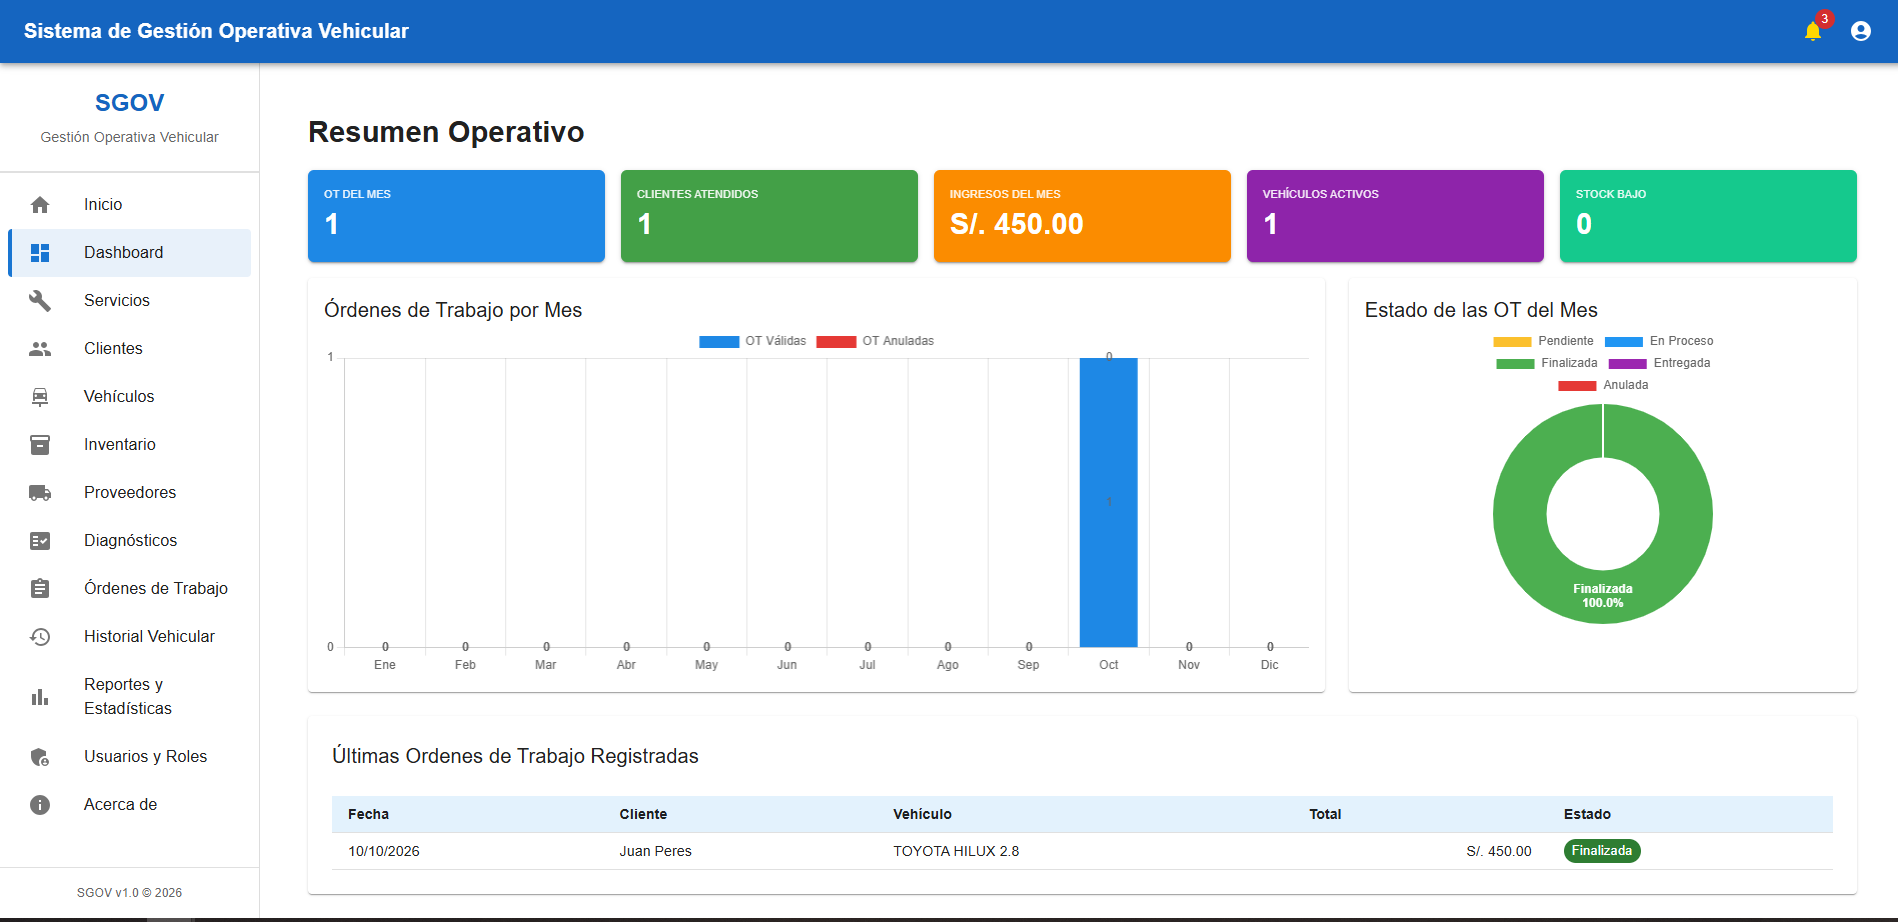
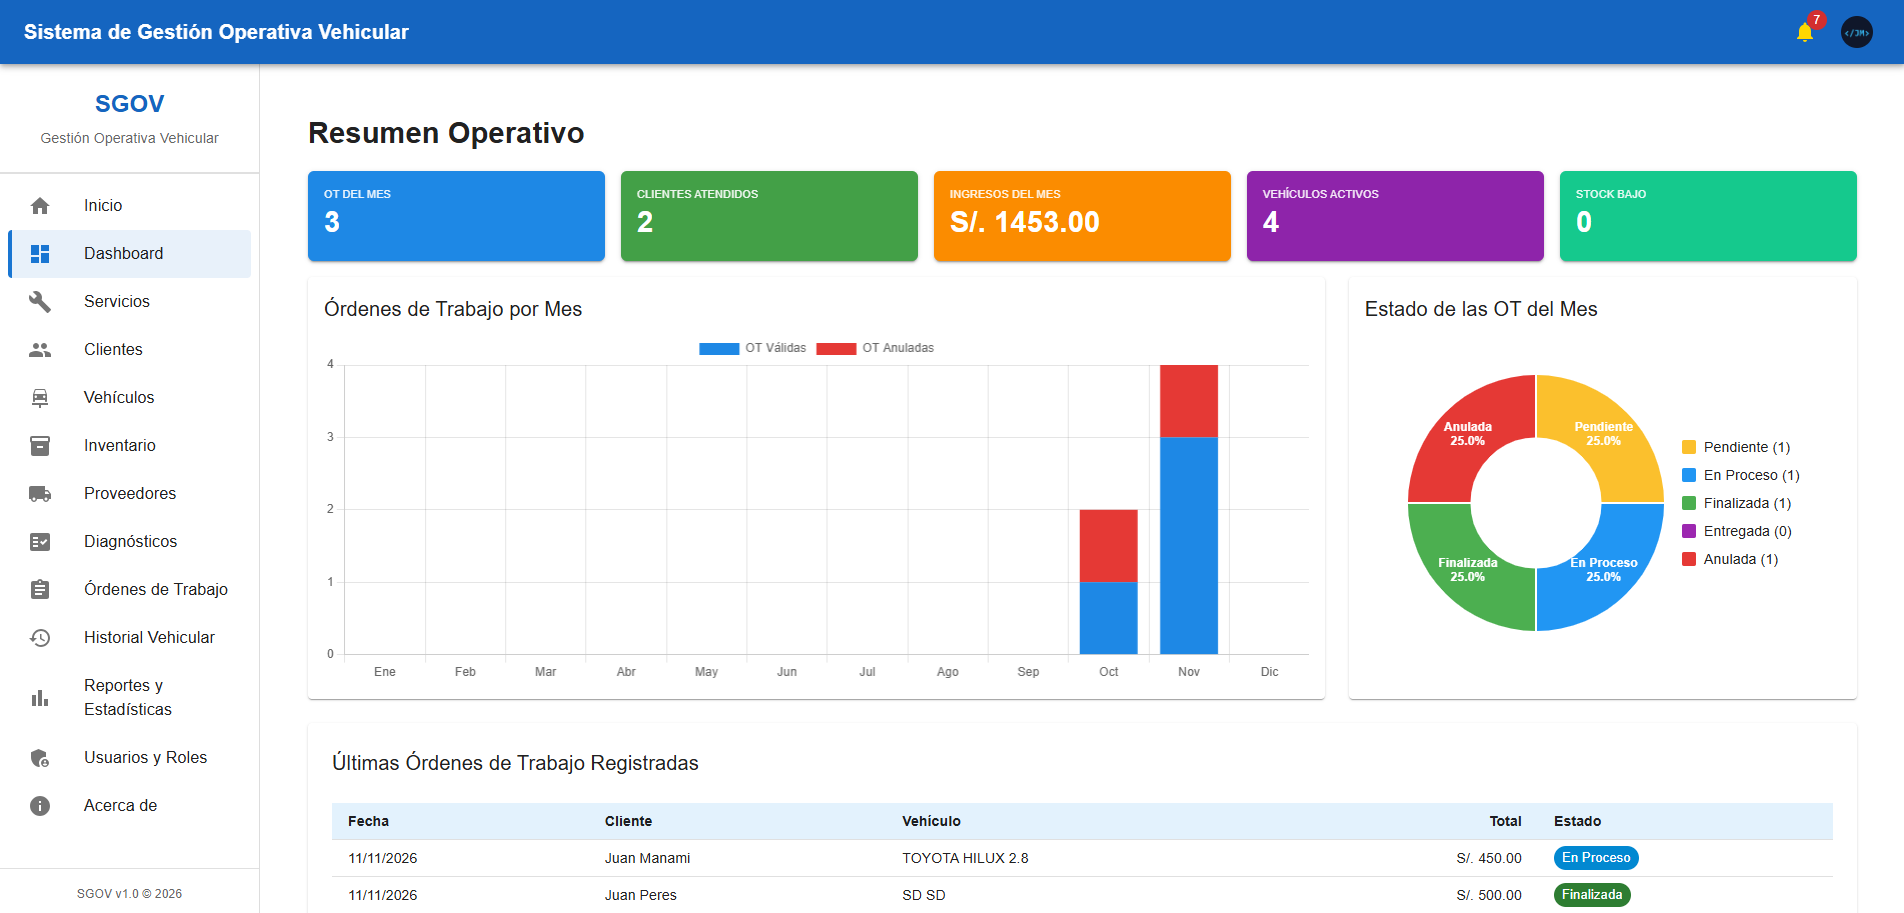
v2: correccion de imagenes de projects

diff --git a/src/components/sections/Projects.tsx b/src/components/sections/Projects.tsx
@@ -1,7 +1,8 @@
 import { useEffect, useState } from "react";
 import SGOVdashboard from "../../assets/images/SGOV/SGOVdashboard.png";
-import SGOVordenes from "../../assets/images/SGOV/SGOVdashboard.png";
-import SGOVreportes from "../../assets/images/SGOV/SGOVdashboard.png";
+import SGOVhistorial from "../../assets/images/SGOV/SGOVhistorial.png";
+import SGOVordenes from "../../assets/images/SGOV/SGOVordentrabajo.png";
+import SGOVdiagnostico from "../../assets/images/SGOV/SGOVdiagnostico.png";
 
 const tecnologiasSGOV = [
   "React",
@@ -184,7 +185,7 @@ function Projects() {
             </div>
 
             <img
-              src={SGOVdashboard}
+              src={SGOVhistorial}
               alt="Dashboard de SGOV"
               className="mb-8 w-full rounded-lg object-contain"
             />
@@ -193,14 +194,12 @@ function Projects() {
               El problema
             </h4>
             <p className="mb-6 text-slate-700 dark:text-slate-300">
-              El taller no contaba con ningún sistema. Las fotos de evidencia
-              quedaban en los celulares, los acuerdos se hacían por chat de
-              WhatsApp o de palabra, y los diagnósticos en PDF estaban sueltos.
-              No existía un registro único, así que encontrar el historial de un
-              vehículo era difícil y era fácil que algo se perdiera. Toda la
-              información dependía de un solo celular: si se malograba o se
-              perdía, se perdía también el registro de clientes, fotos y
-              conversaciones.
+              Muchos talleres automotrices manejan su información de forma
+              dispersa: las fotos de evidencia quedan en los celulares, los
+              acuerdos se hacen por chat o de palabra, y los diagnósticos en PDF
+              terminan sueltos. Sin un registro único, encontrar el historial de
+              un vehículo es difícil y es fácil que algo se pierda. Toda la
+              información depende de un solo dispositivo.
             </p>
 
             <h4 className="mb-2 font-semibold text-brand-600 dark:text-brand-400">
@@ -236,8 +235,8 @@ function Projects() {
                 className="rounded-lg object-contain"
               />
               <img
-                src={SGOVreportes}
-                alt="Reportes en SGOV"
+                src={SGOVdiagnostico}
+                alt="Diagnóstico en SGOV"
                 className="rounded-lg object-contain"
               />
             </div>
